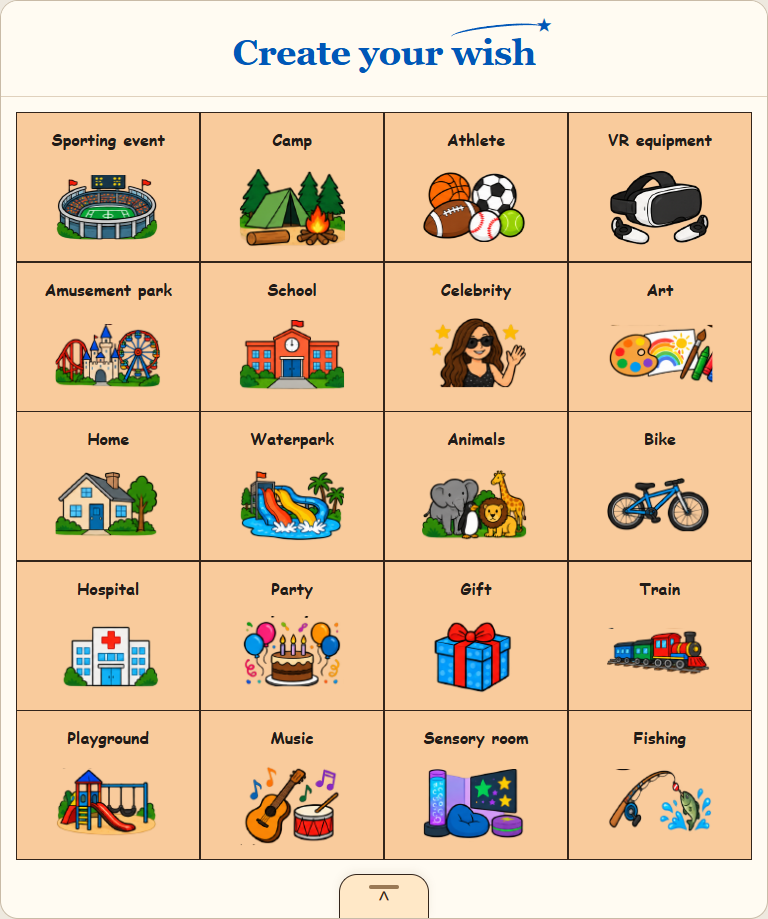
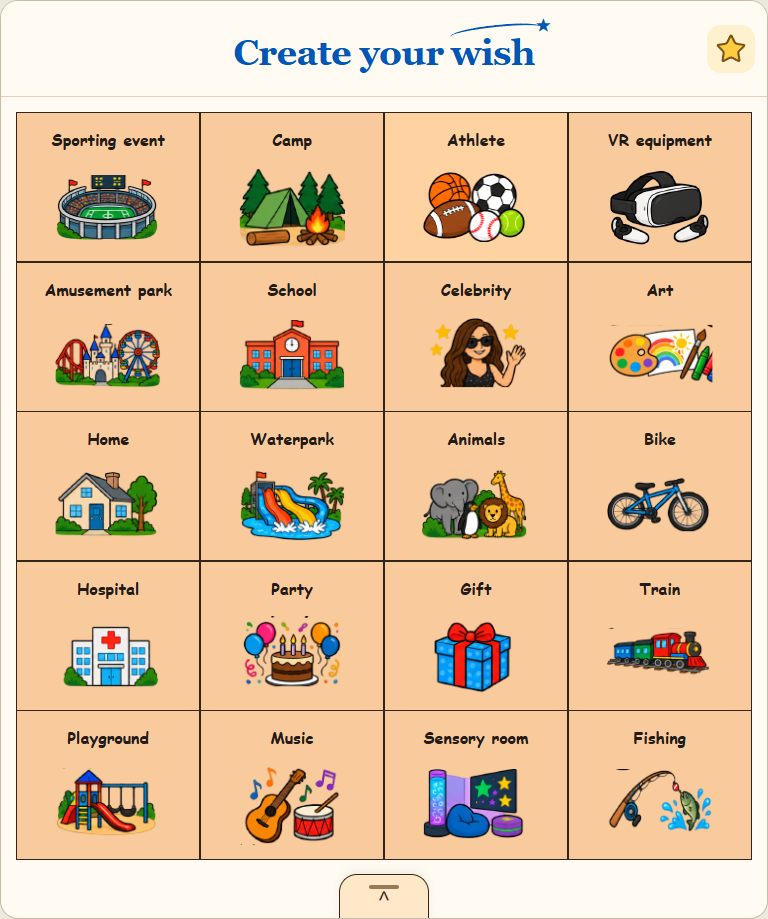
Restore star settings and record independent LLC audience

diff --git a/ios/WishExplorer/WishRootView.swift b/ios/WishExplorer/WishRootView.swift
@@ -77,14 +77,28 @@ struct WishRootView: View {
                     Label("Privacy", systemImage: "hand.raised").font(.subheadline.weight(.semibold)).padding(14)
                 }
             }.buttonStyle(.plain).foregroundStyle(WishTheme.secondary).accessibilityLabel("Privacy")
-            Button { store.caregiverPresented = true } label: {
-                if sizeClass == .compact {
-                    Image(systemName: "person.crop.circle").font(.headline).frame(width: 44, height: 44)
-                } else {
-                    Label("Grown-ups", systemImage: "person.crop.circle").font(.subheadline.weight(.semibold)).padding(14)
-                }
-            }.buttonStyle(.plain).foregroundStyle(WishTheme.secondary).accessibilityLabel("Grown-ups")
+            SettingsStarButton { store.caregiverPresented = true }
         }.padding(.horizontal, sizeClass == .compact ? 12 : 24).padding(.vertical, 16)
+    }
+}
+
+private struct SettingsStarButton: View {
+    var action: () -> Void
+
+    var body: some View {
+        Button(action: action) {
+            WishStar().fill(WishTheme.yellow)
+                .overlay(WishStar().stroke(WishTheme.ink, lineWidth: 1.5))
+                .frame(width: 32, height: 32)
+                .rotationEffect(.degrees(-8))
+                .frame(width: 48, height: 48)
+                .background(.white, in: Circle())
+                .contentShape(Rectangle())
+                .accessibilityHidden(true)
+        }
+        .buttonStyle(.plain)
+        .accessibilityLabel("Settings")
+        .accessibilityHint("Open grown-up settings")
     }
 }
 

diff --git a/scripts/check-release-metadata.py b/scripts/check-release-metadata.py
@@ -47,10 +47,13 @@ def validate(metadata):
     if audience.get("kidsCategory") is True and audience.get("kidsAgeBand") not in {"5-and-under", "6-8", "9-11"}:
         problems.append("Choose the Kids Category age band: 5-and-under, 6-8, or 9-11.")
     low, high = audience.get("minimumAge"), audience.get("maximumAge")
-    if any(isinstance(age, bool) or not isinstance(age, (int, float)) for age in (low, high)) or not 0 <= low <= high <= 120:
+    valid_low = not isinstance(low, bool) and isinstance(low, (int, float)) and 0 <= low <= 120
+    # Once a minimum is specified, null maximum means an open-ended age range.
+    valid_high = "maximumAge" in audience and (high is None or (not isinstance(high, bool) and isinstance(high, (int, float)) and valid_low and low <= high <= 120))
+    if not valid_low or not valid_high:
         problems.append("Specify the intended audience age range.")
-    elif audience.get("kidsCategory") is True and high > 11:
-        problems.append("Review the Kids Category choice against an audience range extending above age 11.")
+    elif audience.get("kidsCategory") is True and (high is None or high > 11):
+        problems.append("Review the Kids Category choice against an audience range extending above age 11 or having no upper age limit.")
     countries = audience.get("launchCountries")
     if not isinstance(countries, list) or not countries or any(not isinstance(code, str) or not re.fullmatch(r"[A-Z]{2}", code) or code in {"XX", "ZZ"} for code in countries):
         problems.append("Choose actual launch countries using two-letter country codes; verify availability in App Store Connect.")

diff --git a/scripts/test_release_metadata.py b/scripts/test_release_metadata.py
@@ -27,6 +27,8 @@ class ReleaseMetadataTests(unittest.TestCase):
         self.assertTrue(any("publisher" in problem for problem in problems))
         self.assertEqual(example["audience"]["launchCountries"], ["US"])
         self.assertFalse(any("launch countries" in problem for problem in problems))
+        self.assertEqual(example["audience"]["minimumAge"], 2)
+        self.assertIsNone(example["audience"]["maximumAge"])
 
     def test_offline_record_still_requires_completed_reviews(self):
         record = self.valid_record()
@@ -58,6 +60,16 @@ class ReleaseMetadataTests(unittest.TestCase):
         record = self.valid_record()
         record["onlinePreviewEnabled"] = "NO"
         self.assertTrue(any("Explicitly choose" in problem for problem in module.validate(record)))
+
+    def test_open_ended_audience_still_needs_category_review(self):
+        record = self.valid_record()
+        record["audience"].update(kidsCategory=False, kidsAgeBand="", minimumAge=2, maximumAge=None)
+        self.assertEqual(module.validate(record), [])
+        record["audience"]["kidsCategory"] = True
+        record["audience"]["kidsAgeBand"] = "5-and-under"
+        self.assertTrue(any("no upper age limit" in problem for problem in module.validate(record)))
+        del record["audience"]["maximumAge"]
+        self.assertIn("Specify the intended audience age range.", module.validate(record))
 
 
 if __name__ == "__main__":

diff --git a/docs/apple-requirements-review.md b/docs/apple-requirements-review.md
@@ -2,7 +2,7 @@
 
 Reviewed November 5, 2026 against current primary Apple documentation. This is an engineering readiness review, not an approval or legal-compliance determination. Source implementation was inspected while privacy improvements were being developed; final behavior still needs native verification.
 
-The owner confirmed a **U.S. first release under their business account**, with future white-label intent. Exact publisher/legal entity, support contact, public privacy-policy URL, intended ages, and Kids Category selection remain **pending user decisions**. Apple business enrollment has not been verified. Do not invent those values or present a placeholder as a published policy. See [white-label distribution](white-label-distribution.md) for the single-business starting point and later client options.
+The owner confirmed a **U.S. first release published by a separate, independent LLC, not CanaClaw**, with future white-label intent. The LLC's exact legal name is unspecified; there is no public business email or published privacy-policy URL yet. The intended audience is recorded exactly as **"2 - 17+"**; the plus sign is open-ended and no upper age cap has been inferred. Kids Category selection still requires deliberate review. Apple business enrollment has not been verified. Do not invent publisher/contact/URL values or present a placeholder as a published policy. See [white-label distribution](white-label-distribution.md) for the single-business starting point and later client options.
 
 ## Requirements and implementation matrix
 
@@ -19,7 +19,7 @@ The owner confirmed a **U.S. first release under their business account**, with 
 | Required-reason API | **Required because used:** `CA92.1` covers app-only UserDefaults reads/writes, not other apps/system data. [NSPrivacyAccessedAPITypeReasons](https://developer.apple.com/documentation/bundleresources/app-privacy-configuration/nsprivacyaccessedapitypes/nsprivacyaccessedapitypereasons) | `PrivacyInfo.xcprivacy` declares `NSPrivacyAccessedAPICategoryUserDefaults` with `CA92.1`; use is local app preferences/draft. | Inspect the archived app for the manifest, generate Xcode's privacy report, and re-audit dependencies/API use when changed. |
 | Upload SDK | **Required:** uploads since April 28, 2026 use Xcode 26+ and iOS/iPadOS 26+ SDK. [SDK minimum requirements](https://developer.apple.com/news/upcoming-requirements/?id=04282026a) | Project specifies Xcode 26; iPadOS deployment target is 17. | Build/archive/test on a supported Mac. SDK minimum and oldest supported device OS are different settings. |
 
-Apple's Kids guidance describes adult-level gate tasks and age bands of 5 and under, 6-8, and 9-11; the publisher must select the appropriate band. Accessibility review should include adults using assistive technology. [Design safe and age-appropriate experiences: Kids category](https://developer.apple.com/kids/#kids-category)
+Apple's Kids guidance describes adult-level gate tasks and age bands of 5 and under, 6-8, and 9-11. The declared **"2 - 17+"** audience crosses these bands and extends to older users, so do not select Kids Category automatically or treat one band as the entire intended audience. Content age rating and the intended user age span are separate decisions. Accessibility review should include adults using assistive technology. [Design safe and age-appropriate experiences: Kids category](https://developer.apple.com/kids/#kids-category)
 
 ## App Privacy: offline and optional service differ
 
@@ -31,7 +31,9 @@ Keep the optional service disabled until its operator, endpoint, vendor access, 
 
 Native code now uses a temporary session without shared cookies, credentials, or a cache, rejects cross-origin/non-HTTPS redirects, and cancels adult authorization/requests on session exit or inactivity. A native notice explains local storage, clearing choices, online request contents, and connection metadata. These are inspected code changes; their compilation and runtime behavior remain unverified on Windows. See `backend-privacy-review.md` for the service audit, and `privacy-policy-draft.html` for the explicitly incomplete policy draft.
 
-`config/release-metadata.example.json` records the confirmed `US` launch and intentionally leaves publisher, contact, and age decisions unset. `scripts/check-release-metadata.py` rejects that record until completed. It checks the record, not App Store Connect availability, the account, or the compiled app, and does not certify approval.
+Release metadata must reflect the confirmed `US` launch, separate independent LLC, and declared **"2 - 17+"** audience without inventing the LLC's legal name, contact details, or public URLs. The machine-readable record uses `statedAgeRange: "2–17+"`, `minimumAge: 2`, and `maximumAge: null`; null explicitly means **open-ended**, not an omitted decision or an inferred age cap. Kids Category remains undecided. `scripts/check-release-metadata.py` checks the completed release record, not App Store Connect availability, the account, or the compiled app, and does not certify approval.
+
+For the confirmed U.S. audience, under-13 users are intentionally included. FTC guidance covers commercial child-directed apps that collect personal information; that can include qualifying persistent identifiers, not just names or photos. Any internal-operations exception is conditional, not presumed from having no accounts. Review the actual online data flow before enabling it; this note does not establish COPPA compliance or call for new age/identity collection. [FTC: Six-Step COPPA Compliance Plan, Step 1](https://www.ftc.gov/business-guidance/resources/childrens-online-privacy-protection-rule-six-step-compliance-plan-your-business), [FTC COPPA FAQs, coverage and persistent-identifier/internal-operations questions](https://www.ftc.gov/business-guidance/resources/complying-coppa-frequently-asked-questions). The app's adult gate remains distinct from verifiable parental consent.
 
 ## Regional age assurance: conditional release dependency
 
@@ -42,11 +44,11 @@ Declared Age Range is not a universal instruction to collect dates of birth. App
 | Texas, new Apple Accounts; changes from June 4, 2026 | June 3 notice supersedes the older injunction/pause announcement. It covers age assurance, parental consent for minors, significant changes, and revocation tooling. [Texas update](https://developer.apple.com/news/?id=sg176nne) | Included in the planned U.S. scope: evaluate the Declared Age Range, significant-change, StoreKit, and notification requirements before distribution. |
 | Utah / Louisiana, new Apple Accounts | Age categories are available through the API for Utah from May 6, 2026 and Louisiana from July 1, 2026. [February 24 regional update](https://developer.apple.com/news/?id=f5zj08ey) | Test applicable regulatory signals and consent states; do not infer exemption from a low content rating. |
 | Brazil | The regional update describes age-category sharing subject to the person's or guardian's agreement. [February 24 regional update](https://developer.apple.com/news/?id=f5zj08ey) | Outside the confirmed first-release scope. Reassess before expansion; do not invent mandatory birthdate collection. |
-| Australia, Singapore, Brazil: 18+ downloads | Apple describes App Store adult confirmation for 18+ apps, alongside possible separate developer obligations. [February 24 regional update](https://developer.apple.com/news/?id=f5zj08ey) | Outside the confirmed first-release scope; the intended app is also not an 18+ product. Reassess if scope changes. |
+| Australia, Singapore, Brazil: 18+ downloads | Apple describes App Store adult confirmation for 18+ apps, alongside possible separate developer obligations. [February 24 regional update](https://developer.apple.com/news/?id=f5zj08ey) | Outside the confirmed first-release scope. Determine the actual content rating separately from the open-ended intended audience; reassess before expansion. |
 | Worldwide framework availability | Capability/entitlement is needed to use Declared Age Range. [Declared Age Range](https://developer.apple.com/documentation/declaredagerange) | No integration is currently present. If required for the chosen release scope, implement availability handling, denied/unavailable responses, required regulatory features, and sandbox tests. |
 
 **Upcoming rather than already effective:** Apple announced new Shared Location and Dating and Relationships questionnaire descriptors beginning November 16, 2026; declarations are due for all apps by January 12, 2027, and when submitting updates/changing the questionnaire as specified. Neither feature exists here. Answer the actual questionnaire truthfully when available. [November 2, 2026 announcement](https://developer.apple.com/news/?id=yxkh08us)
 
 ## Release decision still pending
 
-Select target ages, Kids Category, exact publisher/contact, privacy URL, and whether the first release is offline-only. The first-release country is the United States; confirm that selection in App Store Connect when a real app record is created. Then recheck the final native archive, public policy, App Privacy answers, source-art rights, U.S. age-assurance scope, gate behavior, and network data flow. No App Store approval, regional legal compliance, or suitability for real-world AAC/clinical use has been established by this review.
+Validate the declared **"2 - 17+"** audience through product/accessibility review, deliberately resolve Kids Category and content rating, obtain the independent LLC's exact legal name and real contact/policy details, and decide whether the first release is offline-only. The first-release country is the United States; confirm that selection in App Store Connect when a real app record is created. Then recheck the final native archive, public policy, App Privacy answers, source-art rights, U.S. age-assurance scope, gate behavior, and network data flow. No App Store approval, regional legal compliance, or suitability for real-world AAC/clinical use has been established by this review.

diff --git a/docs/release-checklist.md b/docs/release-checklist.md
@@ -2,7 +2,7 @@
 
 Status: development starter, not uploaded, signed, or device-validated.
 
-Confirmed release direction: United States, published under the owner's business, with future white-label versions planned. The legal business name, public email, published policy/support pages, and target child ages are still unconfirmed. See [white-label distribution](white-label-distribution.md) before choosing public client apps or private Custom Apps; no Apple account enrollment or App Store Connect availability has been verified.
+Confirmed release direction: United States, published by a **separate, independent LLC, not CanaClaw**, with future white-label versions planned. The LLC's exact legal name is unspecified, and there is no public business email or published privacy-policy URL yet. The intended audience is exactly **"2 - 17+"**; no upper age cap is inferred. This broad span crosses Kids Category bands and extends to older users, so Kids Category must be reviewed deliberately rather than selected automatically. See [white-label distribution](white-label-distribution.md) before choosing public client apps or private Custom Apps; no Apple account enrollment or App Store Connect availability has been verified.
 
 Privacy review: [Apple requirements](apple-requirements-review.md), [service data-flow audit](backend-privacy-review.md), and [unfinished policy draft](privacy-policy-draft.html). Native source now includes a readable privacy notice, adult gates, per-request online confirmation, opt-in local retention/forget controls, and temporary HTTPS-only networking. The backend's IP limiter now expires idle entries. Native runtime verification is still pending.
 
@@ -17,7 +17,7 @@ Privacy review: [Apple requirements](apple-requirements-review.md), [service dat
 
 ## Signing and TestFlight
 
-- [ ] Choose the final app name, bundle ID, and Apple development team.
+- [ ] Choose the final app name, bundle ID, and verified Apple development team for the independent LLC; obtain its exact legal name.
 - [ ] Create the corresponding App Store Connect app and signing configuration.
 - [ ] Archive, validate, and upload from Xcode; complete export-compliance questions based on the final build.
 - [ ] Supply beta description, review notes, feedback contact, and tester groups. Do not add external testers until the build is ready for their use and Apple's required review is complete.
@@ -27,8 +27,8 @@ Privacy review: [Apple requirements](apple-requirements-review.md), [service dat
 
 - [ ] Finalize approved visual branding and a release icon; do not imply organizational endorsement without agreement.
 - [ ] Publish the actual privacy policy and support contact, complete App Privacy answers against the final binary and hosting behavior, and verify the included privacy manifest.
-- [ ] Decide the appropriate age rating and whether the app will be placed in the Kids Category; implement and validate any requirements that follow from that choice.
-- [ ] Confirm audience ages and resolve current U.S. state age-assurance, parental-consent, and significant-update obligations for the U.S. launch. Do not substitute the reading gate for legal parental consent or assume a low content rating resolves this. Reassess before expanding to another country.
+- [ ] Decide the content age rating and Kids Category treatment for the declared **"2 - 17+"** audience. The span includes multiple Kids bands and older users; do not assign a single Kids band automatically or invent an upper age cap. Implement and validate the resulting requirements.
+- [ ] Review the declared audience and resolve current U.S. state age-assurance, parental-consent, and significant-update obligations for the U.S. launch. Do not substitute the reading gate for legal parental consent or assume a low content rating resolves this. Reassess before expanding to another country.
 - [ ] Confirm offline-only versus online release. The current native build has online descriptions explicitly disabled. Enabling a server requires reviewing IP retention, hosting logs, operator/vendor disclosures, and the final App Privacy answers.
 - [ ] Complete the remaining wish routes and evaluate retaining multiple ideas, including a local idea.
 - [ ] If using a hosted backend, deploy behind HTTPS with appropriate edge rate limits, restricted operational access, retention controls, and incident procedures. Confirm no wish payloads enter infrastructure logs.
@@ -47,7 +47,7 @@ Recheck these requirements before a real upload; they change independently of th
 
 ## Check the release record
 
-Copy `config/release-metadata.example.json` to ignored `config/release-metadata.local.json`, enter the real decisions, and record the reviews that have actually been completed. The example records the confirmed `US` storefront; this file does not change App Store Connect availability. Then run:
+Copy `config/release-metadata.example.json` to ignored `config/release-metadata.local.json`, enter the real decisions, and record the reviews that have actually been completed. The example records the confirmed `US` storefront and the audience as `statedAgeRange: "2–17+"`, `minimumAge: 2`, `maximumAge: null`. Null means the upper age is explicitly open-ended, not missing or capped at 17. The Kids Category decision still needs deliberate review for this span. This file does not change App Store Connect availability. Then run:
 
 ```powershell
 python scripts/check-release-metadata.py config/release-metadata.local.json --check-public-links

diff --git a/ios/README.md b/ios/README.md
@@ -68,9 +68,9 @@ Configure these public release values in `project.yml`; they intentionally defau
 | `WISH_ONLINE_PREVIEW_ENABLED` (default `NO`) | `WishOnlinePreviewEnabled` |
 | `WISH_API_BASE_URL` (default empty) | `WishAPIBaseURL` |
 
-Opening grown-up settings or an external policy/support website requires an ephemeral random four-digit reading check whose prompt spells out each digit. The response uses an accessible numeric keyboard. Answers are held only in view memory and renewed after submission/dismissal; they are never saved. A gate is an adult-task separation mechanism, not identity verification or legal parental consent. It does not block the child from reading the native privacy notice or continuing an offline wish.
+The yellow star at the top right opens **Settings** through the existing adult gate. It has a 48-point tap target and a spoken Settings label; the separate Privacy action stays available without that gate. Opening grown-up settings or an external policy/support website requires an ephemeral random four-digit reading check whose prompt spells out each digit. The response uses an accessible numeric keyboard. Answers are held only in view memory and renewed after submission/dismissal; they are never saved. A gate is an adult-task separation mechanism, not identity verification or legal parental consent. It does not block the child from reading the native privacy notice or continuing an offline wish.
 
-Adult access is revoked on settings dismissal and whenever the scene is not active. Pending confirmations and active network work are canceled; re-entry requires a new gate. The default build remains offline. The planned first release is U.S.-only under the owner's business. Exact publisher identity, contact details, real published policy/support URLs, intended ages, hosting retention, and the root release-record validation are still required before distribution. No claim of completed Apple/legal compliance is made. The current privacy manifest describes the offline baseline with no tracking/data-collection declarations and app-only UserDefaults reason `CA92.1`; reassess declarations before enabling a deployed online feature.
+Adult access is revoked on settings dismissal and whenever the scene is not active. Pending confirmations and active network work are canceled; re-entry requires a new gate. The default build remains offline. The planned first release is U.S.-only under a separate LLC, with stated audience ages 2–17+ and no upper cap entered. Exact legal publisher name, public contact/policy/support pages, the Kids Category approach for this broad audience, hosting retention, and the root release-record validation are still required before distribution. No claim of completed Apple/legal compliance is made. The current privacy manifest describes the offline baseline with no tracking/data-collection declarations and app-only UserDefaults reason `CA92.1`; reassess declarations before enabling a deployed online feature.
 
 See [Apple requirements review](../docs/apple-requirements-review.md), [backend privacy review](../docs/backend-privacy-review.md), [policy draft](../docs/privacy-policy-draft.html), and [release checklist](../docs/release-checklist.md). Native privacy tests cover URL configuration, one-use confirmations, gate non-persistence, immediate authorization revocation before queued service invocation, stale-response rejection, and offline forgetting. These tests are written but have not run without Xcode.
 

diff --git a/docs/white-label-distribution.md b/docs/white-label-distribution.md
@@ -1,10 +1,10 @@
 # White-label distribution plan
 
-Reviewed November 5, 2026 using primary Apple sources. The user confirmed a US, business-published product. Exact legal publisher name, support email, final brand, intended ages/Kids Category choice, and published privacy URL remain pending. This plan is an engineering recommendation, not Apple approval or a legal determination. No additional app records, Bundle IDs, or publications have been created.
+Reviewed November 5, 2026 using primary Apple sources. The user confirmed a **US product published by a separate, independent LLC, not CanaClaw**. The LLC's exact legal name is unspecified; there is no public business email or published privacy-policy URL yet. The intended audience is exactly **"2 - 17+"**, with no inferred upper age cap. That span crosses Kids Category bands and extends to older users; category/content-rating decisions require deliberate review. Final brand also remains pending. This plan is an engineering recommendation, not Apple approval or a legal determination. No additional app records, Bundle IDs, or publications have been created.
 
 ## Initial recommendation
 
-Build **one app published by the user's business**, with configuration for organization name, approved artwork, colors, support details, and permitted wish content. Keep one product identity and one maintained codebase. If multiple organizations are later represented, use clearly identified organization profiles within that product rather than automatically producing a public app clone for each customer. This recommendation is an inference from the constraints below.
+Build **one app published by the user's independent LLC**, with configuration for organization name, approved artwork, colors, support details, and permitted wish content. Keep one product identity and one maintained codebase. If multiple organizations are later represented, use clearly identified organization profiles within that product rather than automatically producing a public app clone for each customer. This recommendation is an inference from the constraints below.
 
 | Route | Practical constraint | Decision for this project |
 | --- | --- | --- |
@@ -24,6 +24,8 @@ Public distribution reaches consumers in selected storefronts; private distribut
 ## Configuration and release boundaries
 
 The current native app supports per-build publisher name, support email, policy/support URLs, and optional API settings. Its display name, blue wordmark, icon, and prototype Bundle ID are still fixed. Customer-specific branding, organization profiles, and separate client products are future work; this plan does not claim that a complete white-label system already exists.
+
+The release record preserves the audience as `statedAgeRange: "2–17+"`, `minimumAge: 2`, `maximumAge: null`. The null upper bound is an explicit open-ended range; it does not select a Kids Category band or imply an age cap.
 
 - Keep publisher identity separate from a customer's displayed brand. Do not silently replace the accountable operator with an organization profile.
 - Keep the child's communication experience independent of branding. Customer configuration must not remove privacy controls, the adult gate, offline access, or essential communication words.

diff --git a/README.md b/README.md
@@ -45,10 +45,10 @@ Follow [ios/README.md](ios/README.md). Generate the project using XcodeGen, sele
 | `backend/docs/ux-components.md` | Current components and the archived six-panel concept with screenshot |
 | `docs/apple-requirements-review.md` | Current Apple privacy/submission review and remaining release decisions |
 | `docs/white-label-distribution.md` | Business-published first release and options for later client distribution |
-| `config/release-metadata.example.json` | U.S. launch recorded; publisher, privacy, and age decisions remain unset |
+| `config/release-metadata.example.json` | U.S. launch and stated ages 2–17+ recorded; publisher, privacy, and Kids Category decisions remain unset |
 
 Run `node scripts/check-contracts.cjs` from the project folder to check that the native app and backend use matching selections and that the source board's 54 concepts are retained across the 20 topic tiles and 34 core communication choices. This does not compile or test SwiftUI.
 
 Source PDFs remain in the user's Downloads folder. They are not copied into the Git repository.
 
-The default app build is offline, with no child identity fields, accounts, advertising, or analytics. Privacy improvements include a native notice, adult gates, local forget controls, and per-request confirmation before optional online descriptions. The owner confirmed a U.S. launch and business publishing account; the exact legal publisher, public privacy/support details, target ages, distribution rights, and Mac/device verification remain open. This project is not submission-ready yet. See the release checklist before enabling a service or preparing an upload.
+The default app build is offline, with no child identity fields, accounts, advertising, or analytics. Privacy improvements include a native notice, adult gates, local forget controls, and per-request confirmation before optional online descriptions. The owner confirmed a U.S. launch under a separate LLC and stated ages **2–17+**. The release record uses minimum age 2 and an open-ended maximum (`null`); this is an audience plan, not Apple's content age rating. Exact legal publisher name, public email/policy/support pages, Kids Category approach, distribution rights, and Mac/device verification remain open. This project is not submission-ready yet. See the release checklist before enabling a service or preparing an upload.

diff --git a/backend/docs/ux-components.md b/backend/docs/ux-components.md
@@ -67,6 +67,10 @@ These source rows check vocabulary coverage; the compact five-column layout abov
 
 “Create your wish” uses a reusable bold blue serif heading, with a small original arch and star above “wish” to echo the supplied Make-A-Wish lettering style. Georgia Bold is a visual approximation, not an assertion that it is the organization's exact typeface. Keep it one accessible heading; decorative shapes do not create extra speech stops. Picture-tile labels retain their existing childlike font.
 
+## Star settings button
+
+A yellow star in the top-right corner opens the existing grown-up settings through the adult reading check. The native `SettingsStarButton` provides a 48-point tap target, the accessible name **Settings**, and a hint explaining that it opens grown-up settings. Keep this action distinct from the decorative star in the heading. The native Privacy action remains available separately. The browser concept also shows the star, a reading check, choice narration, and a confirmed fresh-wish action; it does not reproduce every native settings option.
+
 ## API boundary and verification status
 
 This is a client UI/component revision. The backend endpoints and tests are unchanged. In particular, `/v1/catalog` still exposes the earlier verb taxonomy for compatibility; it does not supply the revised home board or the drawer's 34-word composition. The app owns that screen definition. `amusement-park` maps to `categoryId: "go"` only when entering the existing park flow; it is not itself a valid backend `categoryId`.
